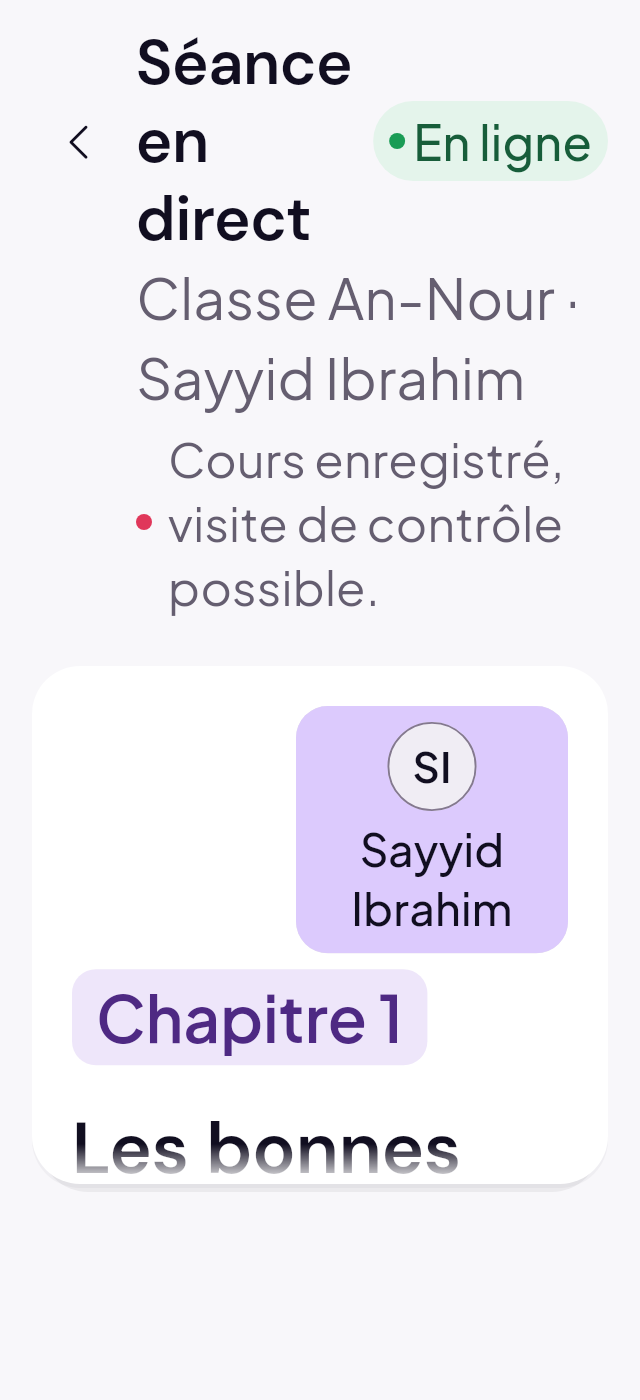
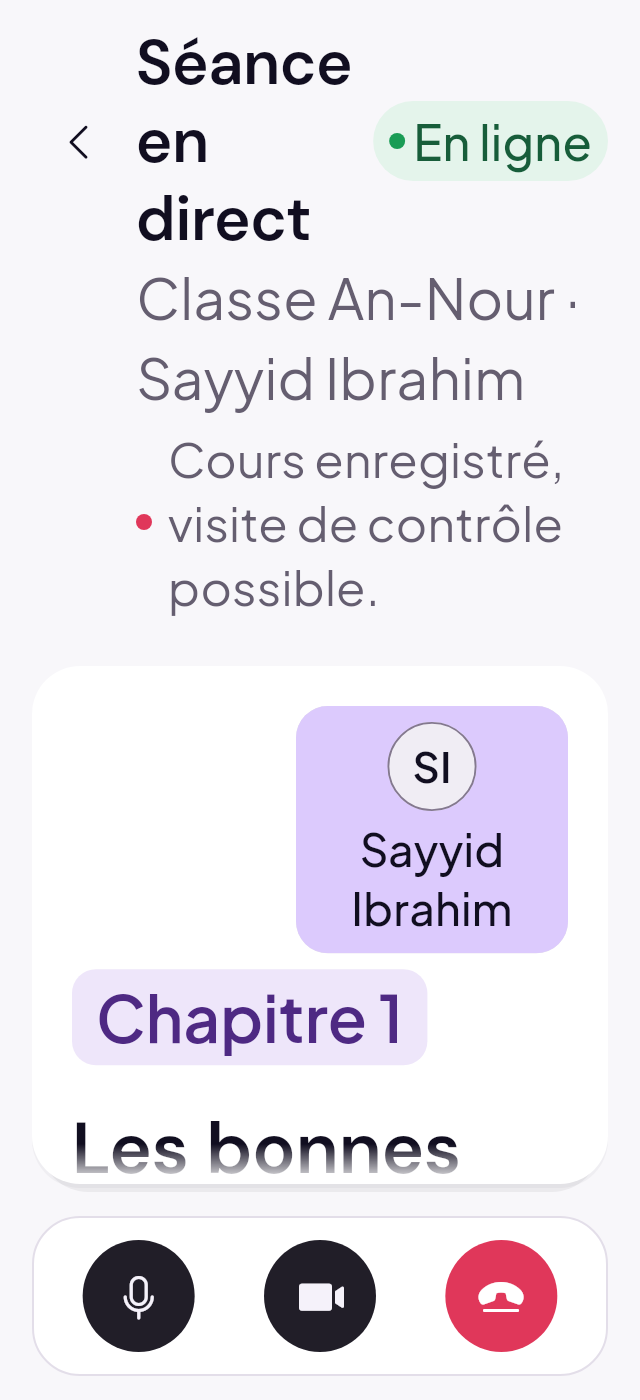
TB-2 : captures revelees prouvees (touche au centre du support, opacite verifiee)
La capture revelee touchait un point fixe (largeur/2, hauteur/3) : a texte x2,
pour l'eleve a 390 et 320, ce point tombe dans l'en-tete, hors de
CommandesMasquables, et la capture revelee etait identique octet pour octet
a celle du repos. La touche vise desormais le centre de ZoneSupport, et chaque
capture verifie l'opacite de la barre avant de s'ecrire (1 revelee, 0 repos).
Les deux captures fausses sont regenerees ; aucune paire repos/revelee
n'est plus identique (66 captures comparees).

Claude-Session: https://claude.ai/code/session_01KyPAZgbV8t4qqEZykWJLFc

Changed region(s): [[0.6875, 0.86, 0.875, 0.9829], [0.4062, 0.86, 0.5938, 0.9829], [0.125, 0.86, 0.3125, 0.9829]]

diff --git a/test/features/tb_recette/captures_tb_test.dart b/test/features/tb_recette/captures_tb_test.dart
@@ -24,6 +24,7 @@ import 'package:rewayah_academy/core/accessibilite/commandes_masquables.dart';
 import 'package:rewayah_academy/features/demo/demo_salle_page.dart';
 import 'package:rewayah_academy/features/demo/seance_demo.dart';
 import 'package:rewayah_academy/features/salle_seance/vue_seance.dart';
+import 'package:rewayah_academy/features/salle_seance/zone_support.dart';
 
 import '../../capture/outil_capture.dart';
 
@@ -62,6 +63,16 @@ const Map<RoleSeance, List<SituationTb>> _situationsCapturees =
       RoleSeance.guidee: <SituationTb>[SituationTb.sal00],
       RoleSeance.enseignant: <SituationTb>[SituationTb.sal00],
     };
+
+/// L'opacite visee par le fondu de la barre de l'appel.
+double _opaciteBarre(WidgetTester tester) => tester
+    .widget<AnimatedOpacity>(
+      find.ancestor(
+        of: find.byKey(CommandesMasquables.commandesKey),
+        matching: find.byType(AnimatedOpacity),
+      ),
+    )
+    .opacity;
 
 void main() {
   test('le delai de masquage est celui de CommandesMasquables (4 s)', () {
@@ -102,13 +113,24 @@ void main() {
               await tester.pump(CommandesMasquables.delaiParDefaut);
               await tester.pump(const Duration(seconds: 1));
               if (revelee) {
-                // Une touche sur le contenu, au tiers de la hauteur : la barre
-                // revient, rien d'autre ne change.
-                await tester.tapAt(Offset(cas.$2.width / 2, cas.$2.height / 3));
+                // Une touche au centre du support (pas un point fixe de
+                // l'ecran : a texte x2, le tiers de la hauteur tombe dans
+                // l'en-tete, hors de CommandesMasquables, et rien ne se
+                // revelait) : la barre revient, rien d'autre ne change.
+                await tester.tapAt(
+                  tester.getCenter(find.byType(ZoneSupport).first),
+                );
                 // Un cadre pour lancer le fondu, puis sa duree.
                 await tester.pump();
                 await tester.pump(const Duration(milliseconds: 400));
               }
+              // La capture prouve ce qu'elle nomme : barre a pleine opacite
+              // une fois revelee, effacee au repos.
+              expect(
+                _opaciteBarre(tester),
+                revelee ? 1 : 0,
+                reason: '$nom : opacite de la barre',
+              );
               expect(tester.takeException(), isNull);
               debugPrint('PNG ${await capturer(tester, nom)}');
             });
